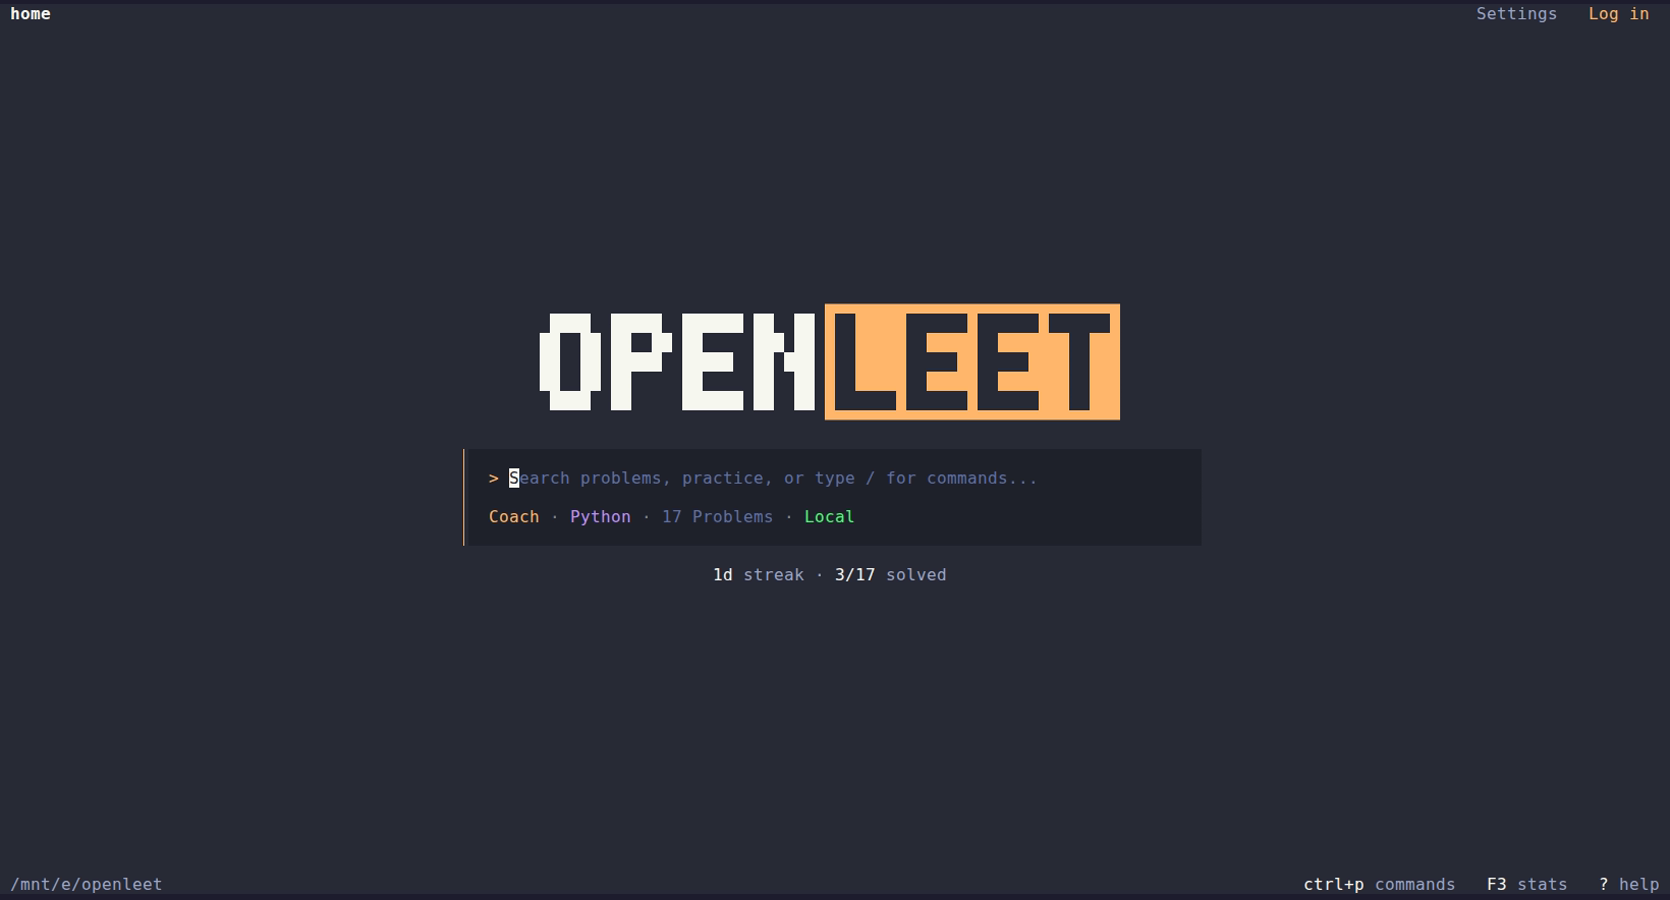
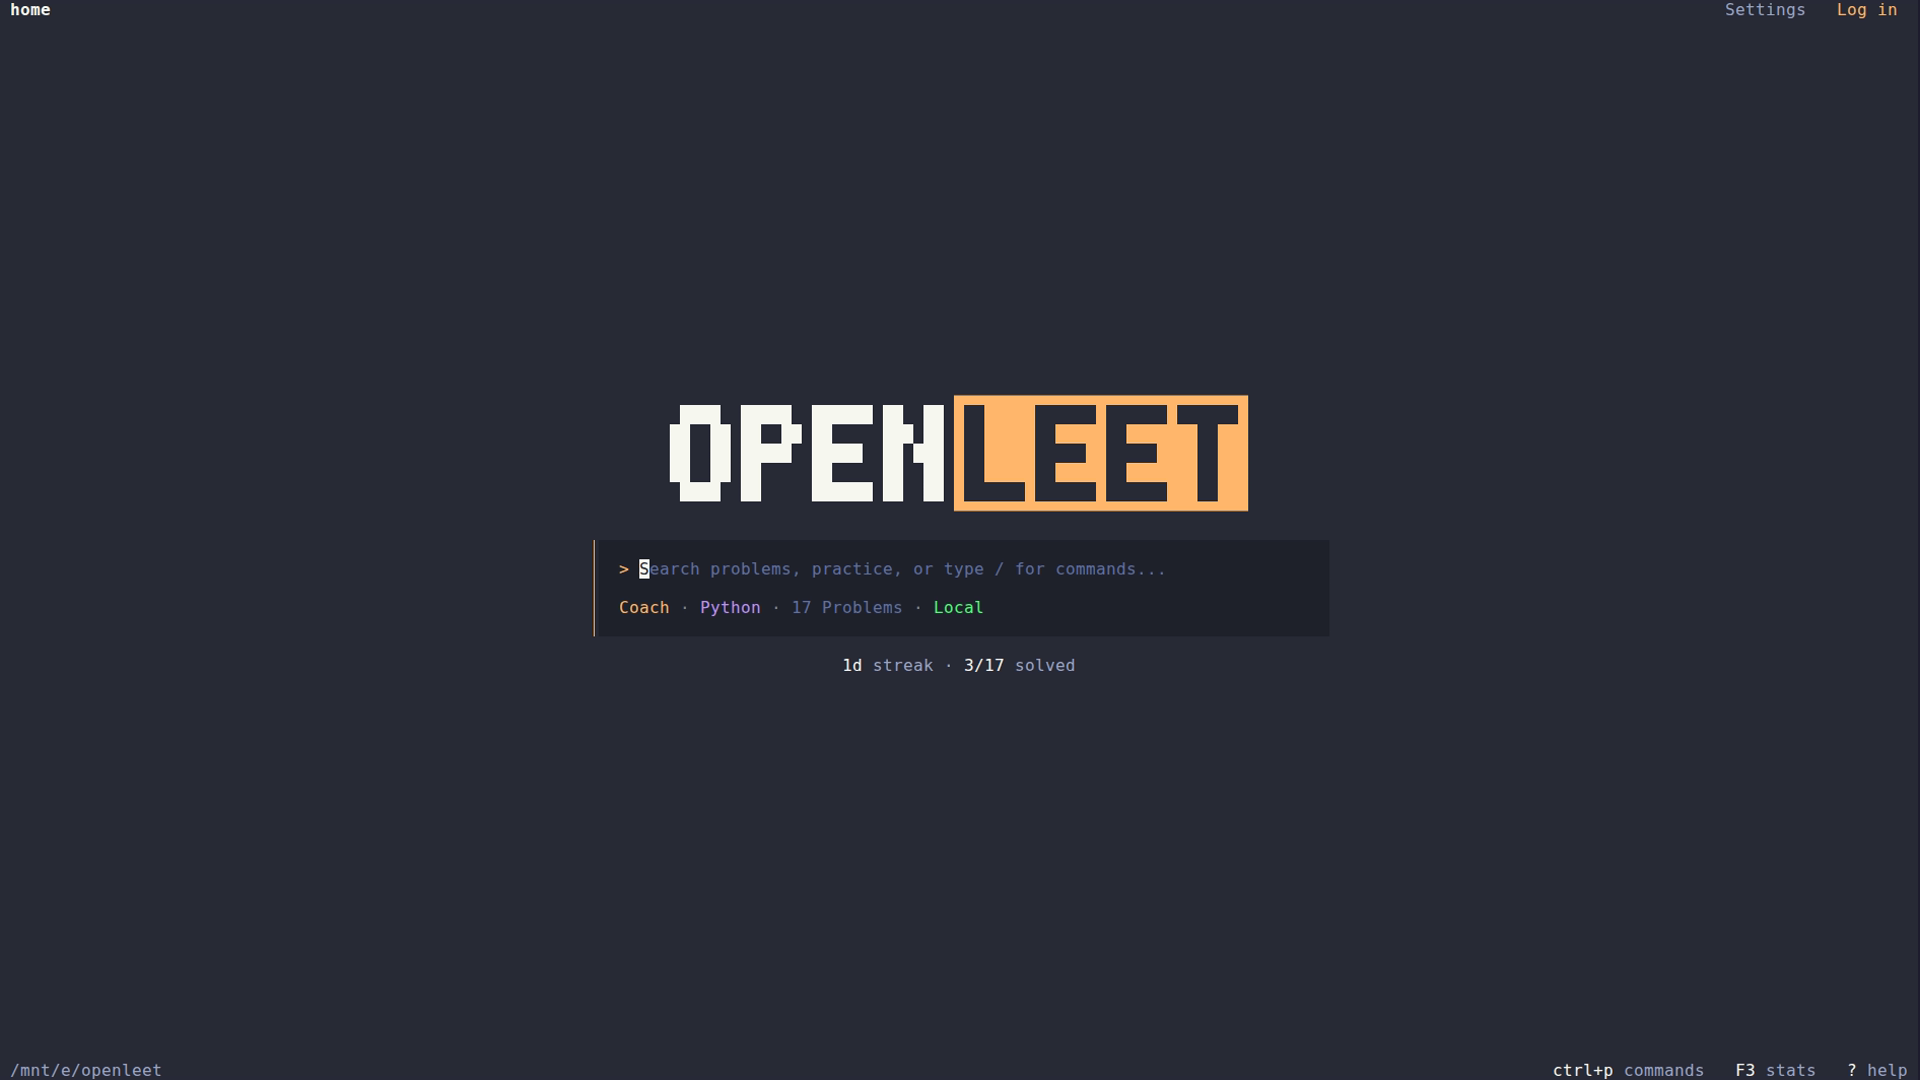
docs: add a same-size theme gallery for the home screen
Capture the Home screen in all twelve palettes at 1920x1080 and keep the
canonical Gruvbox, Dracula, and Tron captures at the same size. Add a
theme index with previews and link it from the screenshot gallery and the
website asset manifest.

diff --git a/readme/website/09-ASSETS.md b/readme/website/09-ASSETS.md
@@ -11,9 +11,9 @@ columns depend on the capture width: 1920px ≈ 184 columns, 1670px ≈ 160 colu
 | :--- | :--- | :--- | :--- | :--- |
 | `home.png` | 1920×1080 · 65 KB | OpenLeet | Home: wordmark, search box, mini stats, plain header | Hero fallback, Home feature card |
 | `home-light.png` | 1920×1080 · 67 KB | OpenLeet Light | Home in light mode | Light-mode section, theme toggle proof |
-| `home-gruvbox.png` | 1670×900 · 67 KB | Gruvbox | Home at 160 columns | Theme gallery card |
-| `home-dracula.png` | 1670×900 · 66 KB | Dracula | Home at 160 columns | Theme gallery card |
-| `home-tron.png` | 1670×900 · 67 KB | Tron | Home at 160 columns | Theme gallery card |
+| `home-gruvbox.png` | 1920×1080 · 69 KB | Gruvbox | Home at the standard capture size | Theme gallery card |
+| `home-dracula.png` | 1920×1080 · 67 KB | Dracula | Home at the standard capture size | Theme gallery card |
+| `home-tron.png` | 1920×1080 · 68 KB | Tron | Home at the standard capture size | Theme gallery card |
 | `roadmap.png` | 1920×1080 · 342 KB | OpenLeet | Winding roadmap, topic rail, inspector | **Primary hero image** |
 | `roadmap-dracula.png` | 1920×1080 · 354 KB | Dracula | Roadmap in Dracula | Theme section |
 | `solve.png` | 1920×1080 · 384 KB | OpenLeet | Three-pane solve workspace + session rail | "The loop" section |
@@ -27,6 +27,30 @@ columns depend on the capture width: 1920px ≈ 184 columns, 1670px ≈ 160 colu
 | `settings-ai.png` | 1920×1080 · 193 KB | OpenLeet | Provider cards, coach/model assignment | AI feature card |
 | `settings-account.png` | 1920×1080 · 152 KB | OpenLeet | Signed-out account and sync | Privacy section |
 | `settings-data.png` | 1920×1080 · 177 KB | OpenLeet | Export, import, backup, reset | Data tools card |
+
+## Theme gallery
+
+[`theme/`](../screenshots/theme/README.md) contains the Home screen in all
+twelve palettes at **1920×1080**. Use these for a theme switcher or gallery
+band; keep the native size and do not crop or recolour. Paths below are relative
+to `readme/screenshots`.
+
+| File | Theme |
+| :--- | :--- |
+| `theme/openleet.png` | OpenLeet |
+| `theme/openleet-light.png` | OpenLeet Light |
+| `theme/opencode.png` | OpenCode |
+| `theme/catppuccin-mocha.png` | Catppuccin Mocha |
+| `theme/catppuccin-latte.png` | Catppuccin Latte |
+| `theme/dracula.png` | Dracula |
+| `theme/flexoki.png` | Flexoki |
+| `theme/gruvbox.png` | Gruvbox |
+| `theme/monokai.png` | Monokai |
+| `theme/onedark.png` | One Dark |
+| `theme/tokyonight.png` | Tokyo Night |
+| `theme/tron.png` | Tron |
+
+Each file has descriptive alt text in the theme index.
 
 ## Modal and palette captures
 

diff --git a/readme/screenshots/theme/README.md b/readme/screenshots/theme/README.md
@@ -1,0 +1,40 @@
+# OpenLeet theme gallery
+
+The Home screen in every built-in palette. All captures use the same terminal
+geometry and are **1920×1080**, so only the palette changes between them.
+
+| Theme | Preview |
+| :--- | :--- |
+| **OpenLeet** | <img src="openleet.png" alt="OpenLeet theme home screen" width="480"> |
+| **OpenLeet Light** | <img src="openleet-light.png" alt="OpenLeet Light theme home screen" width="480"> |
+| **OpenCode** | <img src="opencode.png" alt="OpenCode theme home screen" width="480"> |
+| **Catppuccin Mocha** | <img src="catppuccin-mocha.png" alt="Catppuccin Mocha theme home screen" width="480"> |
+| **Catppuccin Latte** | <img src="catppuccin-latte.png" alt="Catppuccin Latte theme home screen" width="480"> |
+| **Dracula** | <img src="dracula.png" alt="Dracula theme home screen" width="480"> |
+| **Flexoki** | <img src="flexoki.png" alt="Flexoki theme home screen" width="480"> |
+| **Gruvbox** | <img src="gruvbox.png" alt="Gruvbox theme home screen" width="480"> |
+| **Monokai** | <img src="monokai.png" alt="Monokai theme home screen" width="480"> |
+| **One Dark** | <img src="onedark.png" alt="One Dark theme home screen" width="480"> |
+| **Tokyo Night** | <img src="tokyonight.png" alt="Tokyo Night theme home screen" width="480"> |
+| **Tron** | <img src="tron.png" alt="Tron theme home screen" width="480"> |
+
+## Files
+
+```text
+openleet.png
+openleet-light.png
+opencode.png
+catppuccin-mocha.png
+catppuccin-latte.png
+dracula.png
+flexoki.png
+gruvbox.png
+monokai.png
+onedark.png
+tokyonight.png
+tron.png
+```
+
+The five canonical Home screenshots one level up (`home.png`,
+`home-light.png`, `home-gruvbox.png`, `home-dracula.png`, and `home-tron.png`)
+are the same 1920×1080 captures.

diff --git a/readme/SCREENSHOTS.md b/readme/SCREENSHOTS.md
@@ -24,6 +24,14 @@ stats line stays readable in both modes.
 
 The same header and stats line in Gruvbox, Dracula, and Tron.
 
+## Theme gallery
+
+Every built-in palette on the Home screen, all at **1920×1080**:
+[open the theme gallery](screenshots/theme/README.md).
+
+<img src="screenshots/theme/catppuccin-latte.png" alt="OpenLeet home screen in Catppuccin Latte" width="49%">
+<img src="screenshots/theme/monokai.png" alt="OpenLeet home screen in Monokai" width="49%">
+
 ## Header focus state
 
 <img src="screenshots/home-focus.png" alt="OpenLeet header with keyboard focus on the account label and an Account tooltip" width="100%">
@@ -68,6 +76,9 @@ Solved counter, activity heatmap, best streak, active days, difficulty breakdown
 The theme gallery lives in Settings → Appearance. Moving the cursor previews a
 palette live; Enter applies, Esc reverts. Light mode ships as `OpenLeet Light`
 and `Catppuccin Latte`.
+
+See every palette on the Home screen at one size:
+[theme gallery](screenshots/theme/README.md).
 
 ## Light mode
 
